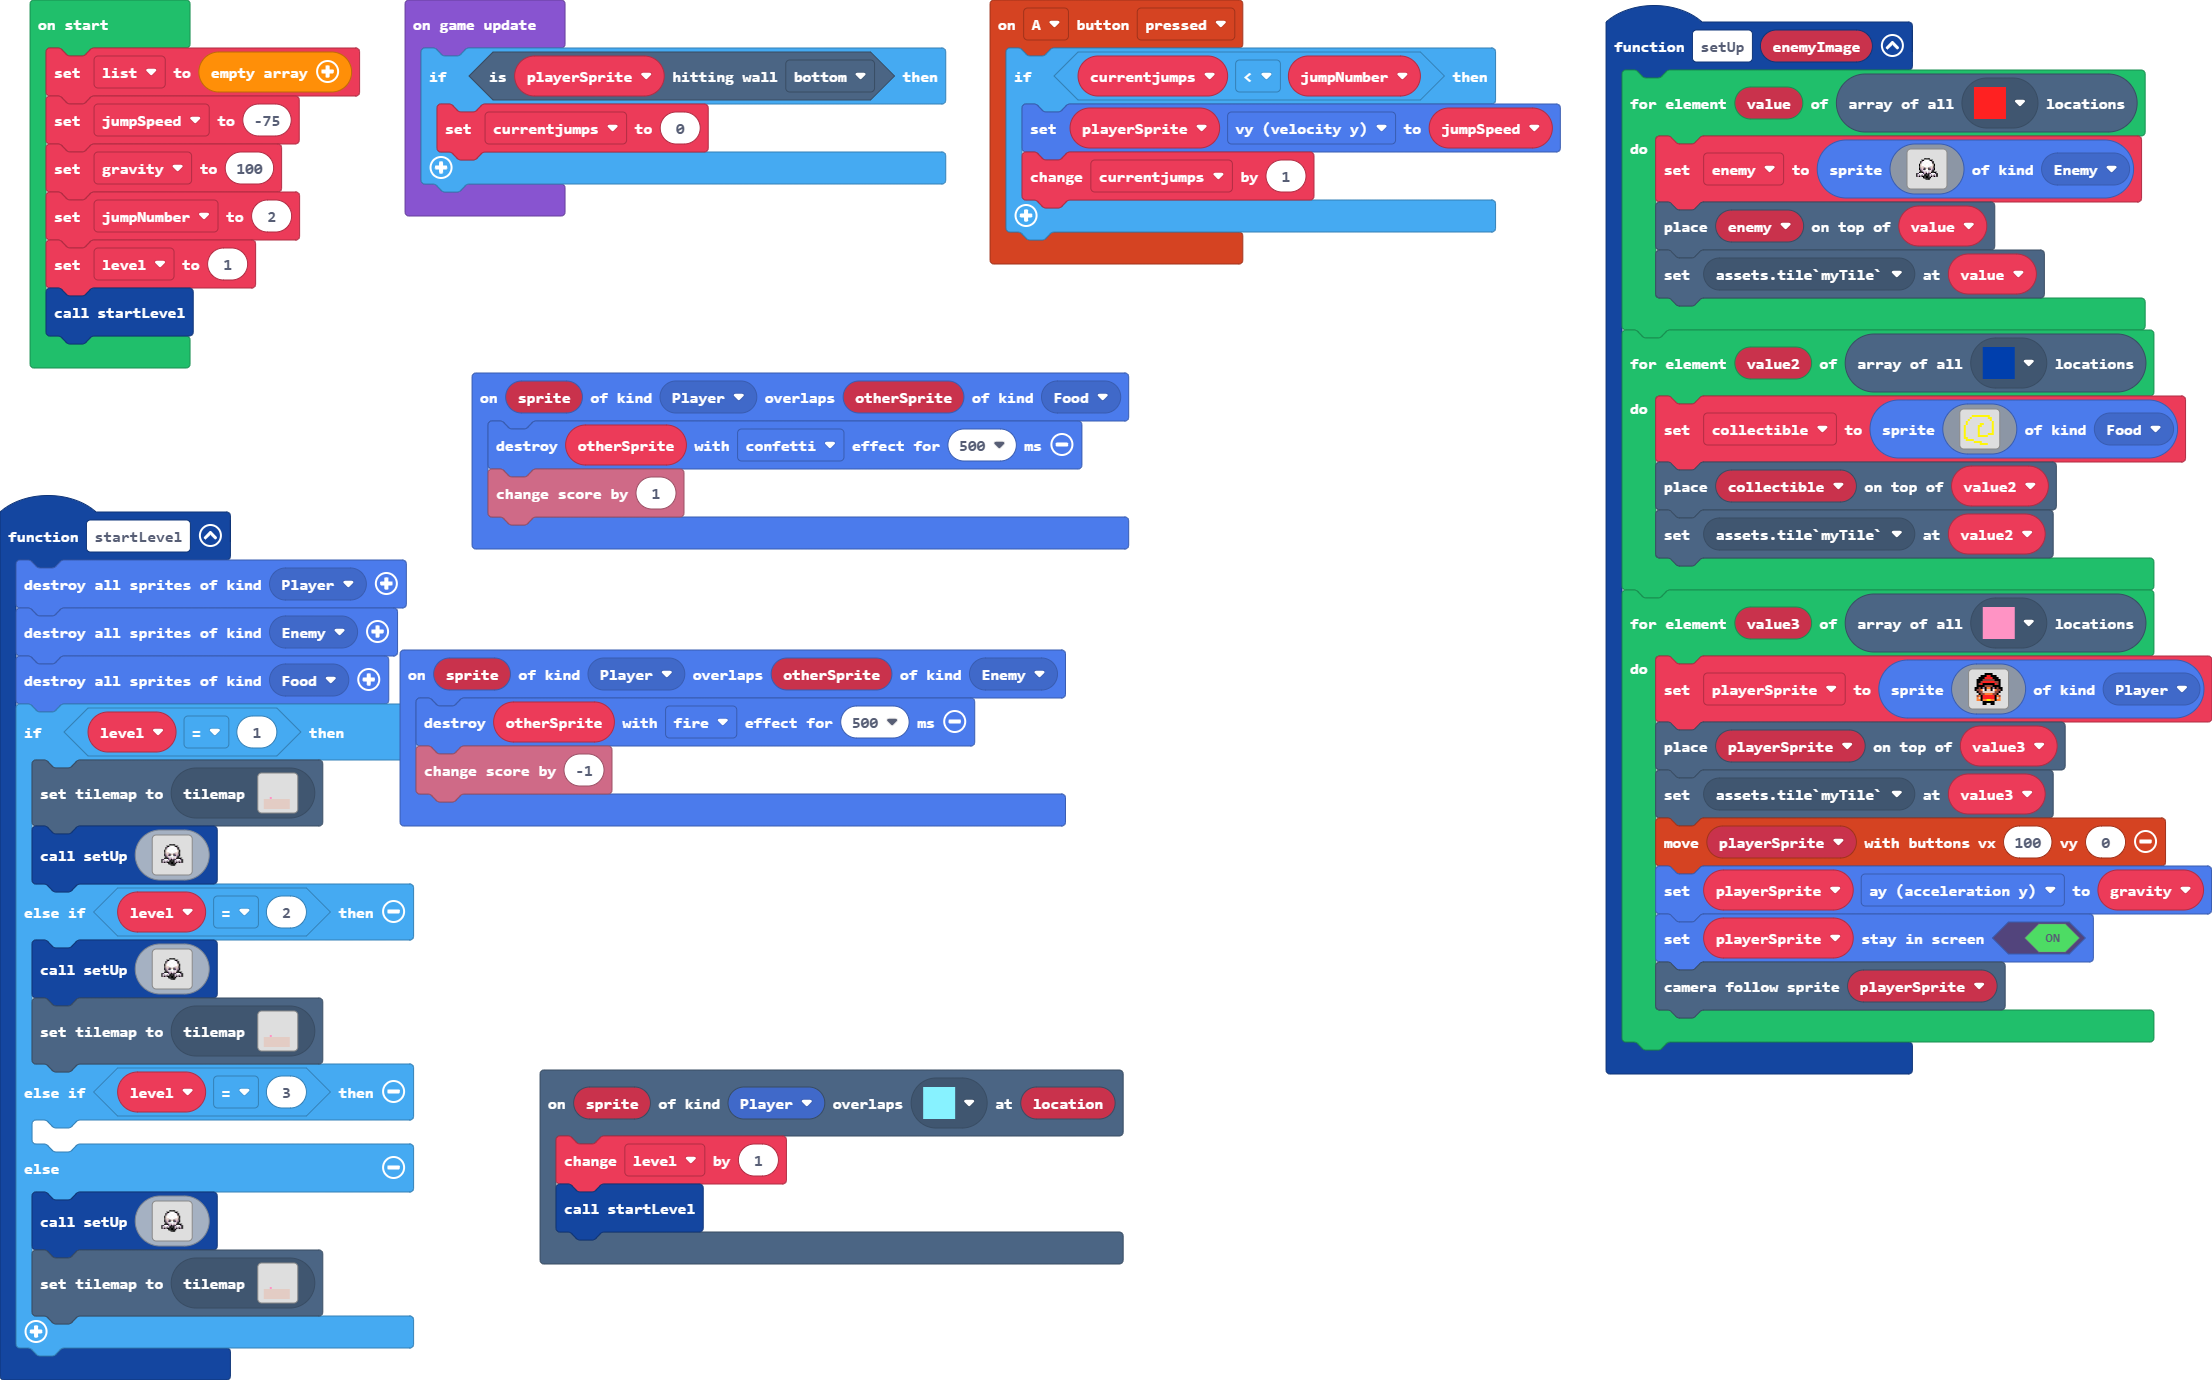
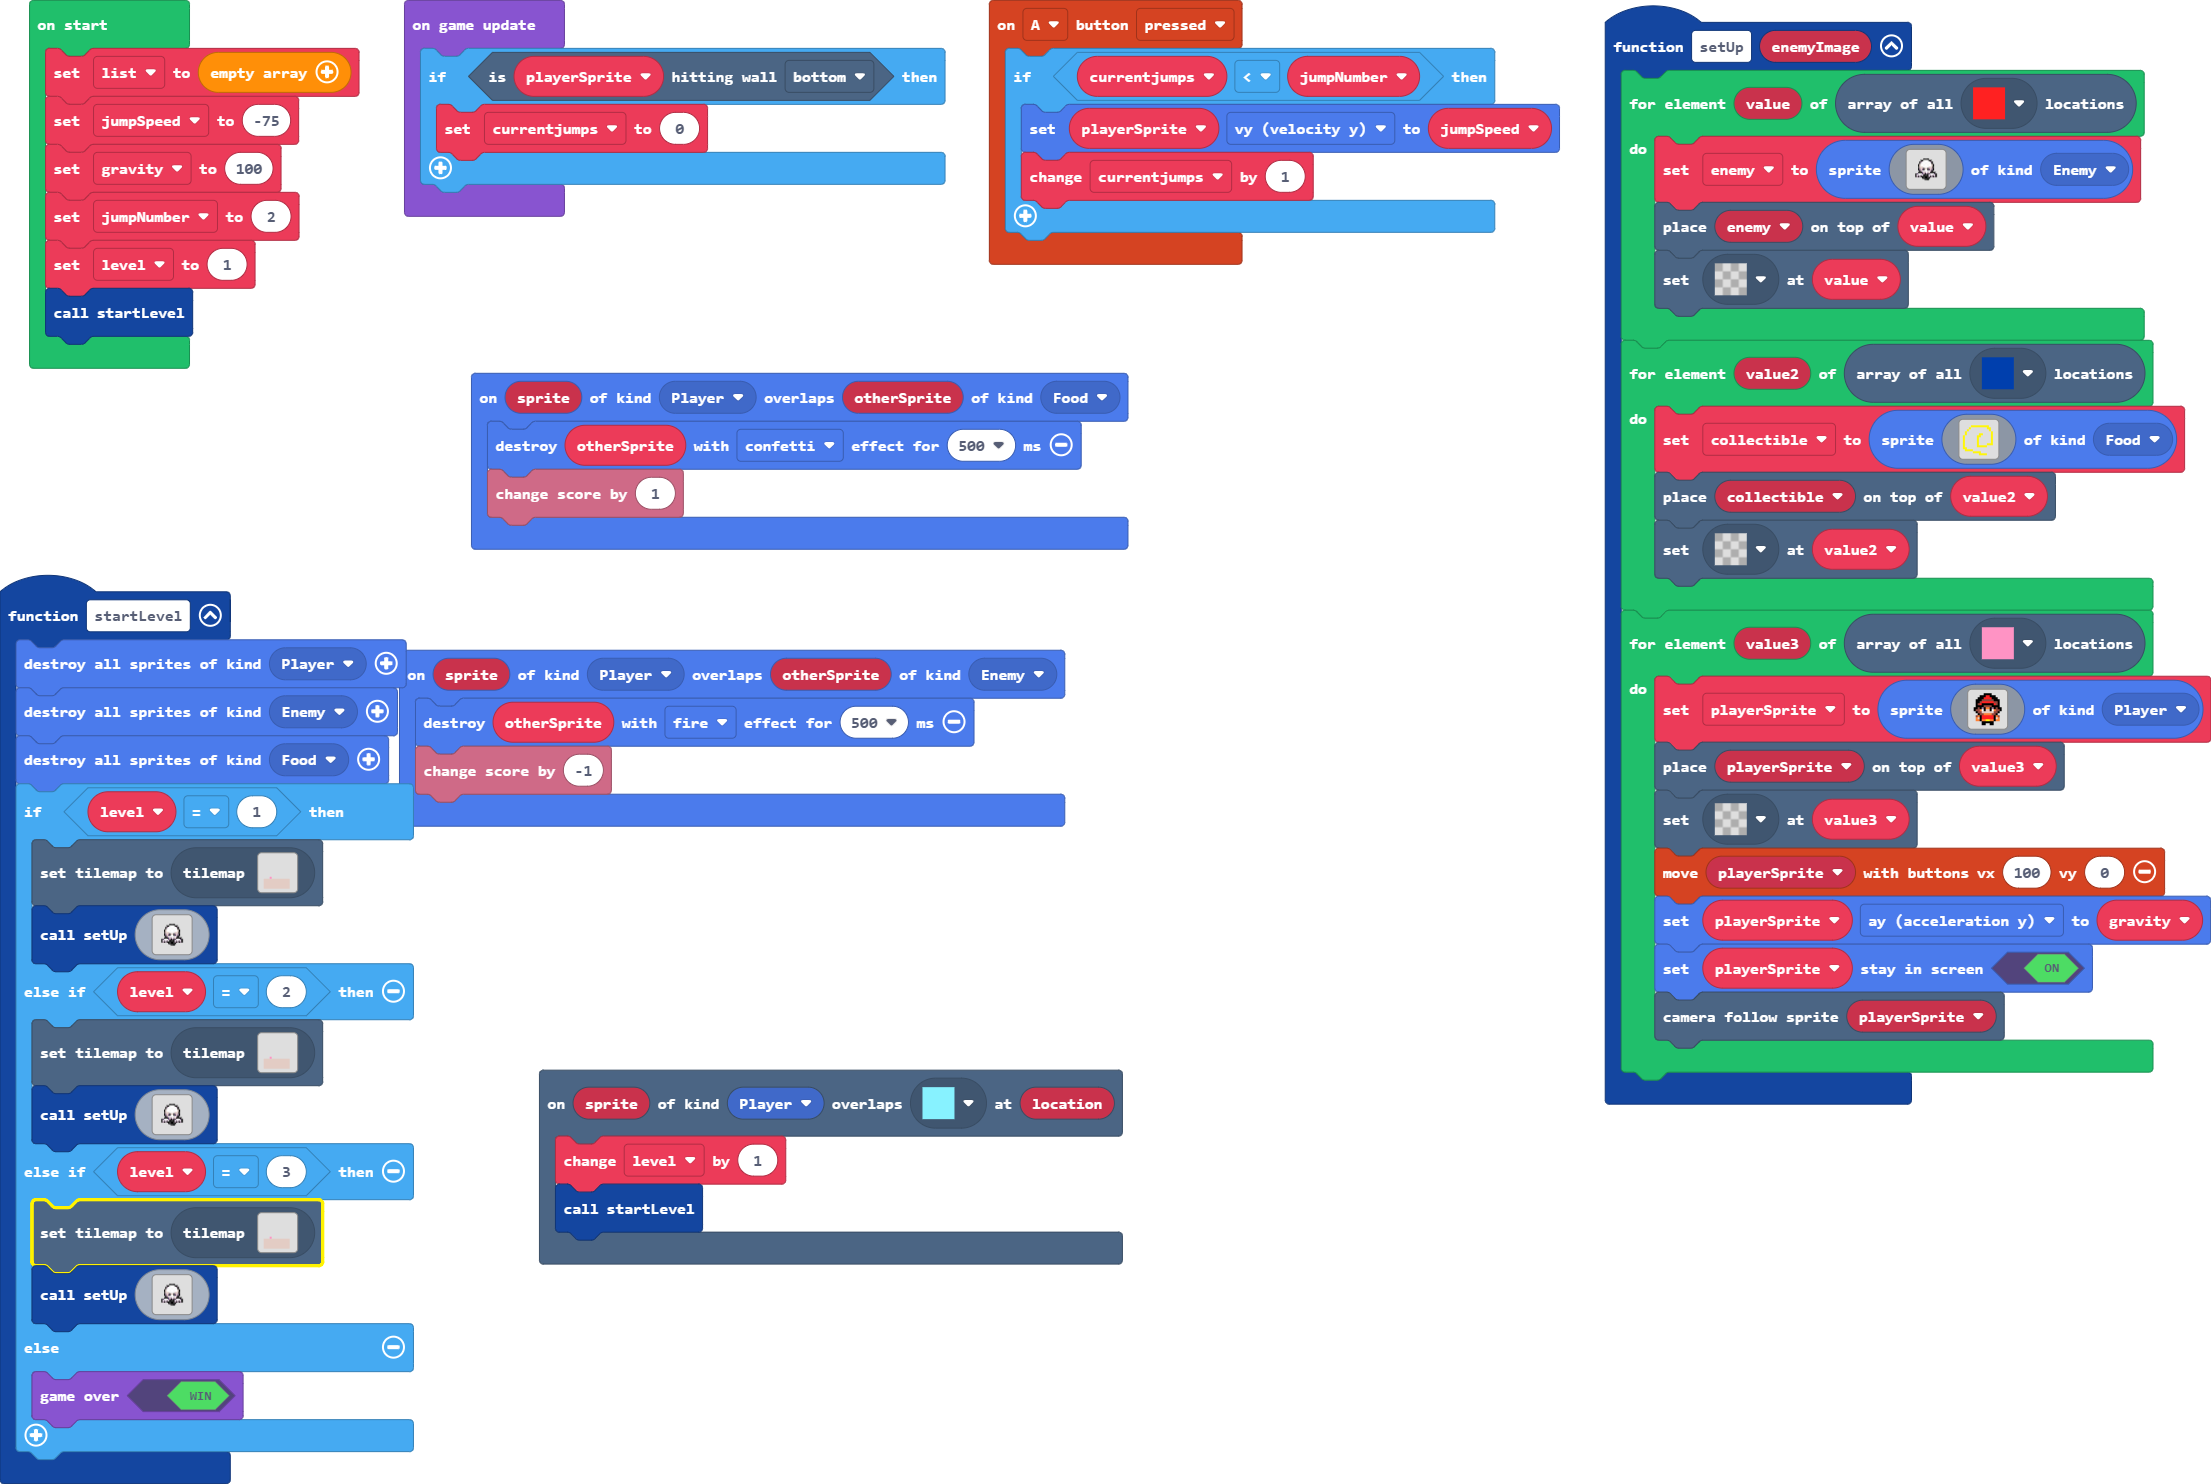
changes made to level switching

diff --git a/tilemap.g.ts b/tilemap.g.ts
@@ -91,6 +91,101 @@ namespace myTiles {
 . . . . . . . . . . . . . . . . 
 . . . . . . . . . . . . . . . . 
 `, [myTiles.transparency16], TileScale.Sixteen);
+            case "level5":
+            case "level5":return tiles.createTilemap(hex`1000100000000000000000000000000000000000000000000000000000000000000000000000000000000000000000000000000000000000000000000000000000000000000000000000000000000000000000000000000000000000000000000000000000000000000000000000000000000000000000000000000000000000000000000000000000000000000000000000000000000000000000000000000000000000000000000000000000000000000000000000000000000000000000000000000000000000000000000000000000000000000000000000000000000000000000000000000000000000000000000000000000000000000000000000000000000000`, img`
+. . . . . . . . . . . . . . . . 
+. . . . . . . . . . . . . . . . 
+. . . . . . . . . . . . . . . . 
+. . . . . . . . . . . . . . . . 
+. . . . . . . . . . . . . . . . 
+. . . . . . . . . . . . . . . . 
+. . . . . . . . . . . . . . . . 
+. . . . . . . . . . . . . . . . 
+. . . . . . . . . . . . . . . . 
+. . . . . . . . . . . . . . . . 
+. . . . . . . . . . . . . . . . 
+. . . . . . . . . . . . . . . . 
+. . . . . . . . . . . . . . . . 
+. . . . . . . . . . . . . . . . 
+. . . . . . . . . . . . . . . . 
+. . . . . . . . . . . . . . . . 
+`, [myTiles.transparency16], TileScale.Sixteen);
+            case "level6":
+            case "level6":return tiles.createTilemap(hex`1000100000000000000000000000000000000000000000000000000000000000000000000000000000000000000000000000000000000000000000000000000000000000000000000000000000000000000000000000000000000000000000000000000000000000000000000000000000000000000000000000000000000000000000000000000000000000000000000000000000000000000000000000000000000000000000000000000000000000000000000000000000000000000000000000000000000000000000000000000000000000000000000000000000000000000000000000000000000000000000000000000000000000000000000000000000000000`, img`
+. . . . . . . . . . . . . . . . 
+. . . . . . . . . . . . . . . . 
+. . . . . . . . . . . . . . . . 
+. . . . . . . . . . . . . . . . 
+. . . . . . . . . . . . . . . . 
+. . . . . . . . . . . . . . . . 
+. . . . . . . . . . . . . . . . 
+. . . . . . . . . . . . . . . . 
+. . . . . . . . . . . . . . . . 
+. . . . . . . . . . . . . . . . 
+. . . . . . . . . . . . . . . . 
+. . . . . . . . . . . . . . . . 
+. . . . . . . . . . . . . . . . 
+. . . . . . . . . . . . . . . . 
+. . . . . . . . . . . . . . . . 
+. . . . . . . . . . . . . . . . 
+`, [myTiles.transparency16], TileScale.Sixteen);
+            case "level7":
+            case "level7":return tiles.createTilemap(hex`1000100000000000000000000000000000000000000000000000000000000000000000000000000000000000000000000000000000000000000000000000000000000000000000000000000000000000000000000000000000000000000000000000000000000000000000000000000000000000000000000000000000000000000000000000000000000000000000000000000000000000000000000000000000000000000000000000000000000000000000000000000000000000000000000000000000000000000000000000000000000000000000000000000000000000000000000000000000000000000000000000000000000000000000000000000000000000`, img`
+. . . . . . . . . . . . . . . . 
+. . . . . . . . . . . . . . . . 
+. . . . . . . . . . . . . . . . 
+. . . . . . . . . . . . . . . . 
+. . . . . . . . . . . . . . . . 
+. . . . . . . . . . . . . . . . 
+. . . . . . . . . . . . . . . . 
+. . . . . . . . . . . . . . . . 
+. . . . . . . . . . . . . . . . 
+. . . . . . . . . . . . . . . . 
+. . . . . . . . . . . . . . . . 
+. . . . . . . . . . . . . . . . 
+. . . . . . . . . . . . . . . . 
+. . . . . . . . . . . . . . . . 
+. . . . . . . . . . . . . . . . 
+. . . . . . . . . . . . . . . . 
+`, [myTiles.transparency16], TileScale.Sixteen);
+            case "level8":
+            case "level8":return tiles.createTilemap(hex`1000100000000000000000000000000000000000000000000000000000000000000000000000000000000000000000000000000000000000000000000000000000000000000000000000000000000000000000000000000000000000000000000000000000000000000000000000000000000000000000000000000000000000000000000000000000000000000000000000000000000000000000000000000000000000000000000000000000000000000000000000000000000000000000000000000000000000000000000000000000000000000000000000000000000000000000000000000000000000000000000000000000000000000000000000000000000000`, img`
+. . . . . . . . . . . . . . . . 
+. . . . . . . . . . . . . . . . 
+. . . . . . . . . . . . . . . . 
+. . . . . . . . . . . . . . . . 
+. . . . . . . . . . . . . . . . 
+. . . . . . . . . . . . . . . . 
+. . . . . . . . . . . . . . . . 
+. . . . . . . . . . . . . . . . 
+. . . . . . . . . . . . . . . . 
+. . . . . . . . . . . . . . . . 
+. . . . . . . . . . . . . . . . 
+. . . . . . . . . . . . . . . . 
+. . . . . . . . . . . . . . . . 
+. . . . . . . . . . . . . . . . 
+. . . . . . . . . . . . . . . . 
+. . . . . . . . . . . . . . . . 
+`, [myTiles.transparency16], TileScale.Sixteen);
+            case "level9":
+            case "level9":return tiles.createTilemap(hex`1000100000000000000000000000000000000000000000000000000000000000000000000000000000000000000000000000000000000000000000000000000000000000000000000000000000000000000000000000000000000000000000000000000000000000000000000000000000000000000000000000000000000000000000000000000000000000000000000000000000000000000000000000000000000000000000000000000000000000000000000000000000000000000000000000000000000000000000000000000000000000000000000000000000000000000000000000000000000000000000000000000000000000000000000000000000000000`, img`
+. . . . . . . . . . . . . . . . 
+. . . . . . . . . . . . . . . . 
+. . . . . . . . . . . . . . . . 
+. . . . . . . . . . . . . . . . 
+. . . . . . . . . . . . . . . . 
+. . . . . . . . . . . . . . . . 
+. . . . . . . . . . . . . . . . 
+. . . . . . . . . . . . . . . . 
+. . . . . . . . . . . . . . . . 
+. . . . . . . . . . . . . . . . 
+. . . . . . . . . . . . . . . . 
+. . . . . . . . . . . . . . . . 
+. . . . . . . . . . . . . . . . 
+. . . . . . . . . . . . . . . . 
+. . . . . . . . . . . . . . . . 
+. . . . . . . . . . . . . . . . 
+`, [myTiles.transparency16], TileScale.Sixteen);
         }
         return null;
     })

diff --git a/main.ts b/main.ts
@@ -2,17 +2,17 @@ function setUp (enemyImage: Image) {
     for (let value of tiles.getTilesByType(assets.tile`enemyTile`)) {
         enemy = sprites.create(assets.image`enemy`, SpriteKind.Enemy)
         tiles.placeOnTile(enemy, value)
-        tiles.setTileAt(value, assets.tile`myTile`)
+        tiles.setTileAt(value, assets.tile`transparency16`)
     }
     for (let value2 of tiles.getTilesByType(assets.tile`myTile0`)) {
         collectible = sprites.create(assets.image`coin0`, SpriteKind.Food)
         tiles.placeOnTile(collectible, value2)
-        tiles.setTileAt(value2, assets.tile`myTile`)
+        tiles.setTileAt(value2, assets.tile`transparency16`)
     }
     for (let value3 of tiles.getTilesByType(assets.tile`playerTile`)) {
         playerSprite = sprites.create(assets.image`player`, SpriteKind.Player)
         tiles.placeOnTile(playerSprite, value3)
-        tiles.setTileAt(value3, assets.tile`myTile`)
+        tiles.setTileAt(value3, assets.tile`transparency16`)
         controller.moveSprite(playerSprite, 100, 0)
         playerSprite.ay = gravity
         playerSprite.setStayInScreen(true)
@@ -41,13 +41,13 @@ function startLevel () {
         tiles.setCurrentTilemap(tilemap`level1`)
         setUp(assets.image`enemy`)
     } else if (level == 2) {
-        setUp(assets.image`enemy`)
         tiles.setCurrentTilemap(tilemap`level1`)
+        setUp(assets.image`enemy`)
     } else if (level == 3) {
-    	
-    } else {
-        setUp(assets.image`enemy`)
         tiles.setCurrentTilemap(tilemap`level1`)
+        setUp(assets.image`enemy`)
+    } else {
+        game.gameOver(true)
     }
 }
 sprites.onOverlap(SpriteKind.Player, SpriteKind.Enemy, function (sprite, otherSprite) {
